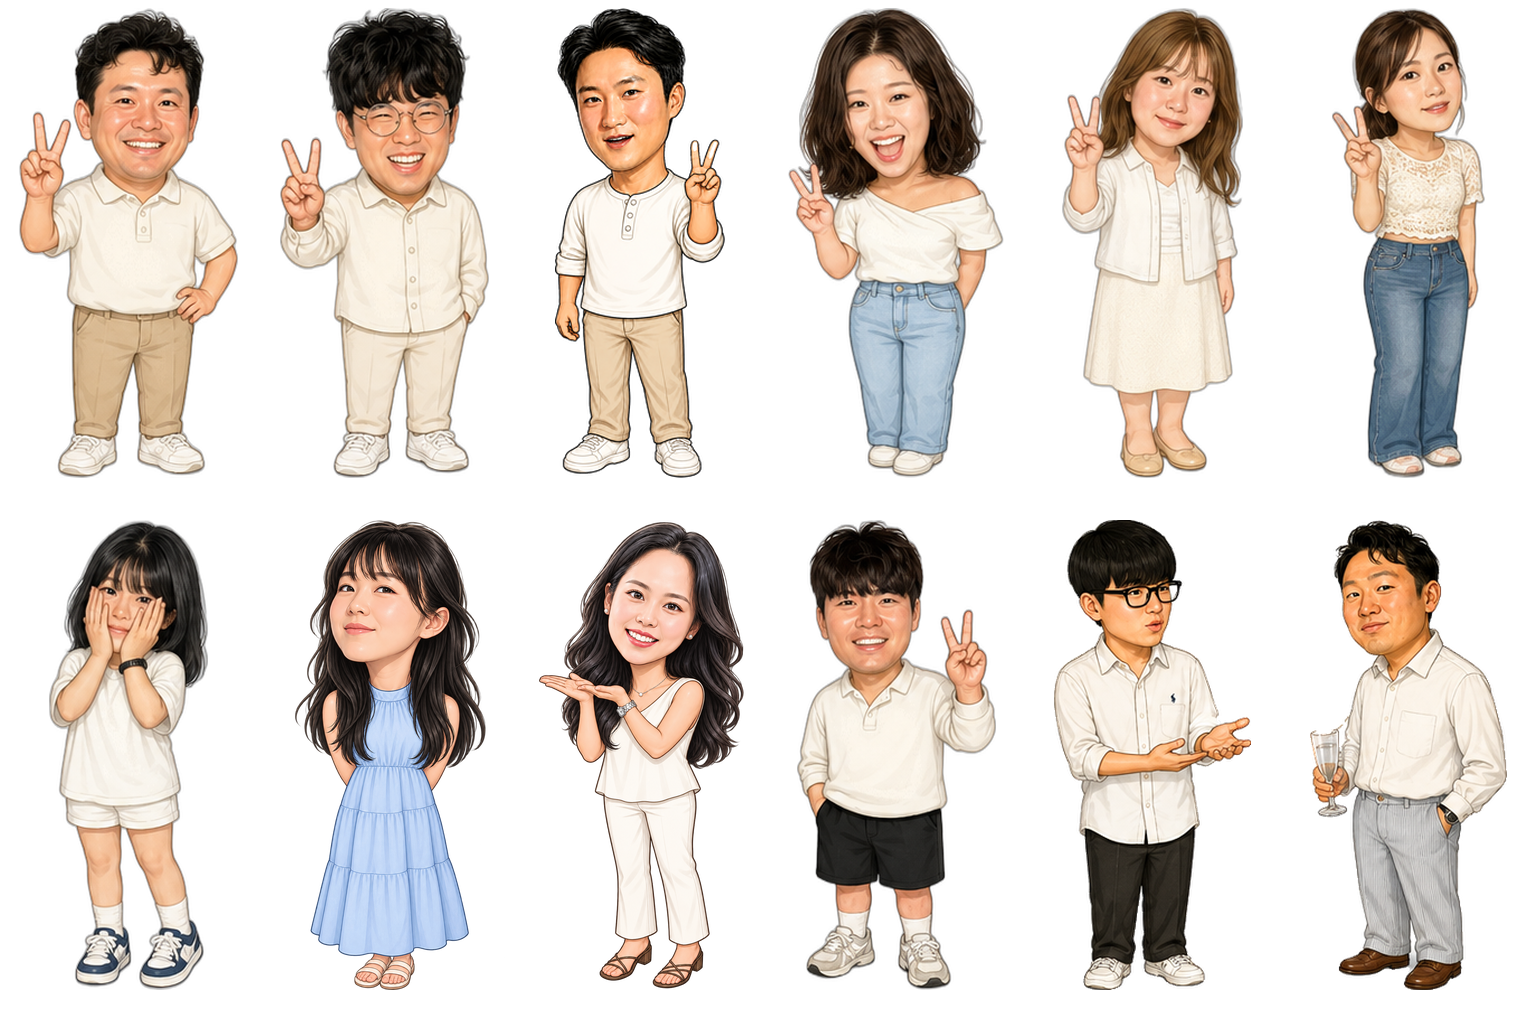
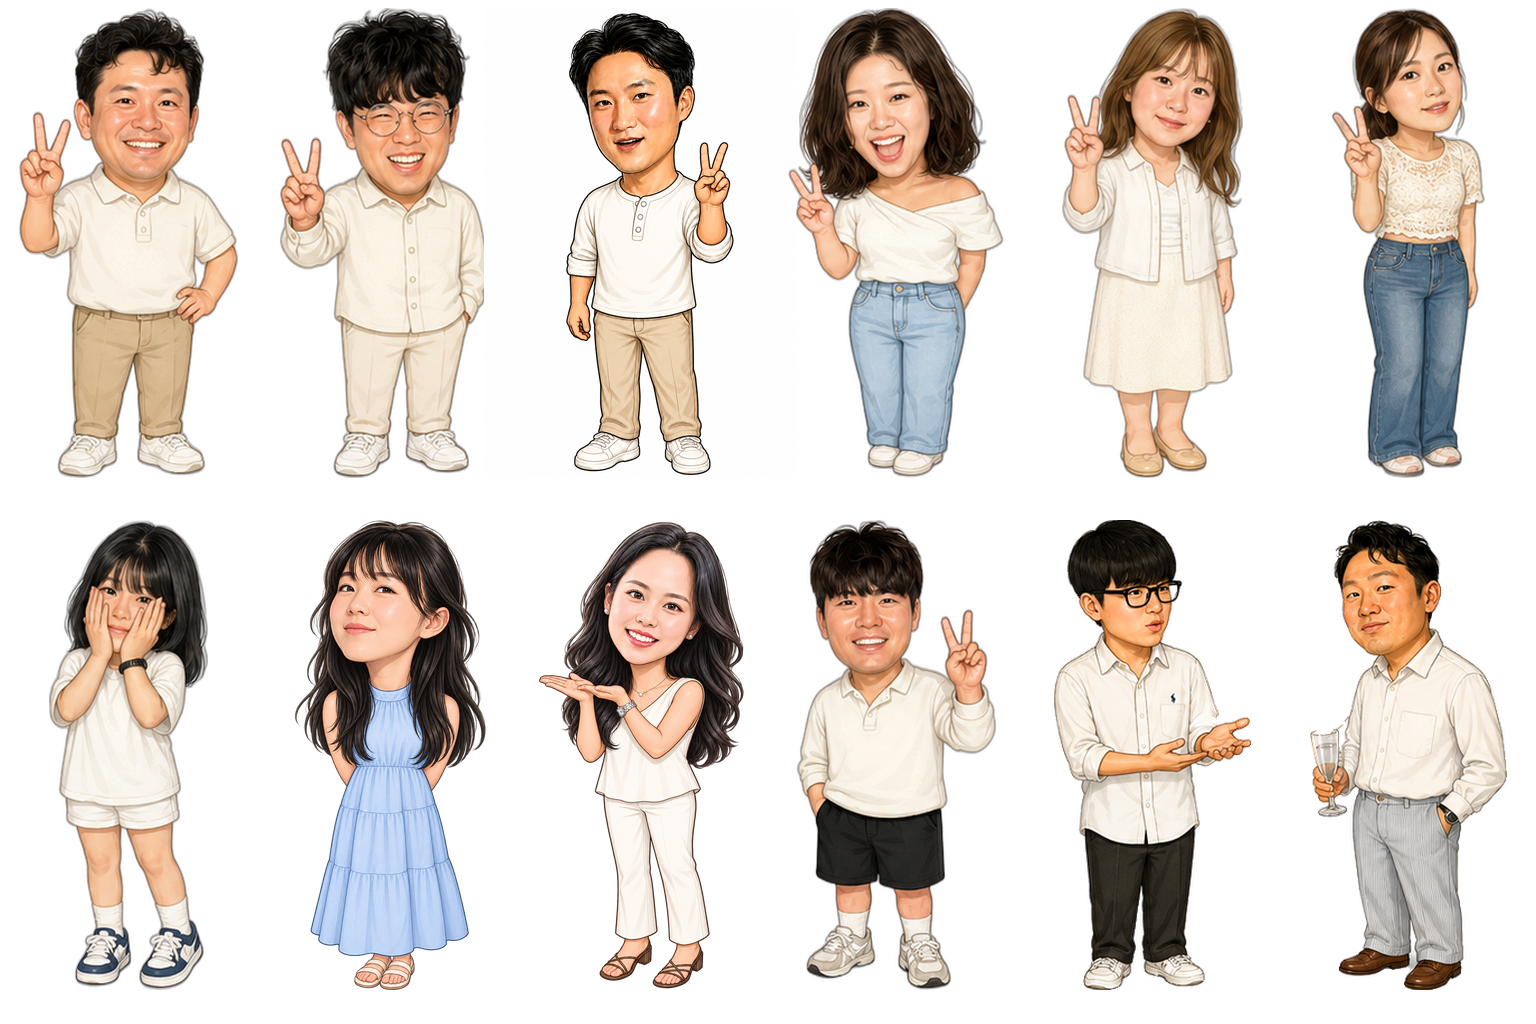
돗자리 수정

Changed region(s): [[0.3438, 0.0, 0.5, 0.4688]]

diff --git a/docs/index.html b/docs/index.html
@@ -50,7 +50,7 @@
                repeating-linear-gradient(94deg, rgba(0,55,0,.18) 0 2px, transparent 2px 12px)}
 
   .scene{position:absolute;left:50%;top:50%;transform:translate(-50%,-42%);
-    width:min(92vw,520px);height:min(70vh,520px);z-index:3}
+    width:min(97vw,620px);height:min(82vh,640px);z-index:3}
   /* 잔디 위 네모 돗자리(체크 패턴) */
   .mat{position:absolute;left:50%;top:56%;transform:translate(-50%,-50%) rotate(-2deg);
     width:48%;aspect-ratio:1/0.9;border-radius:16px;
@@ -63,13 +63,13 @@
   /* 전신 캐릭터 — 돗자리 둘레에 둘러앉음, 살짝 바운스 */
   .char{position:absolute;transform:translate(-50%,-50%);z-index:4;
     transition:transform .55s cubic-bezier(.2,.8,.3,1);will-change:transform}
-  .char img{height:120px;width:auto;display:block;
+  .char img{height:180px;width:auto;display:block;
     filter:drop-shadow(0 8px 6px rgba(0,0,0,.28));
     transform-origin:50% 100%;animation:idle 2.8s ease-in-out infinite}
   @keyframes idle{0%,100%{transform:translateY(0) rotate(-1.5deg)}
     50%{transform:translateY(-4px) rotate(1.5deg)}}
   .char.run img{animation:none}
-  @media (max-width:430px){ .char img{height:104px} }
+  @media (max-width:430px){ .char img{height:150px} }
 
   .card{position:absolute;transform:translate(-50%,-50%);z-index:3;perspective:440px;
     filter:drop-shadow(0 3px 5px rgba(0,0,0,.4))}
